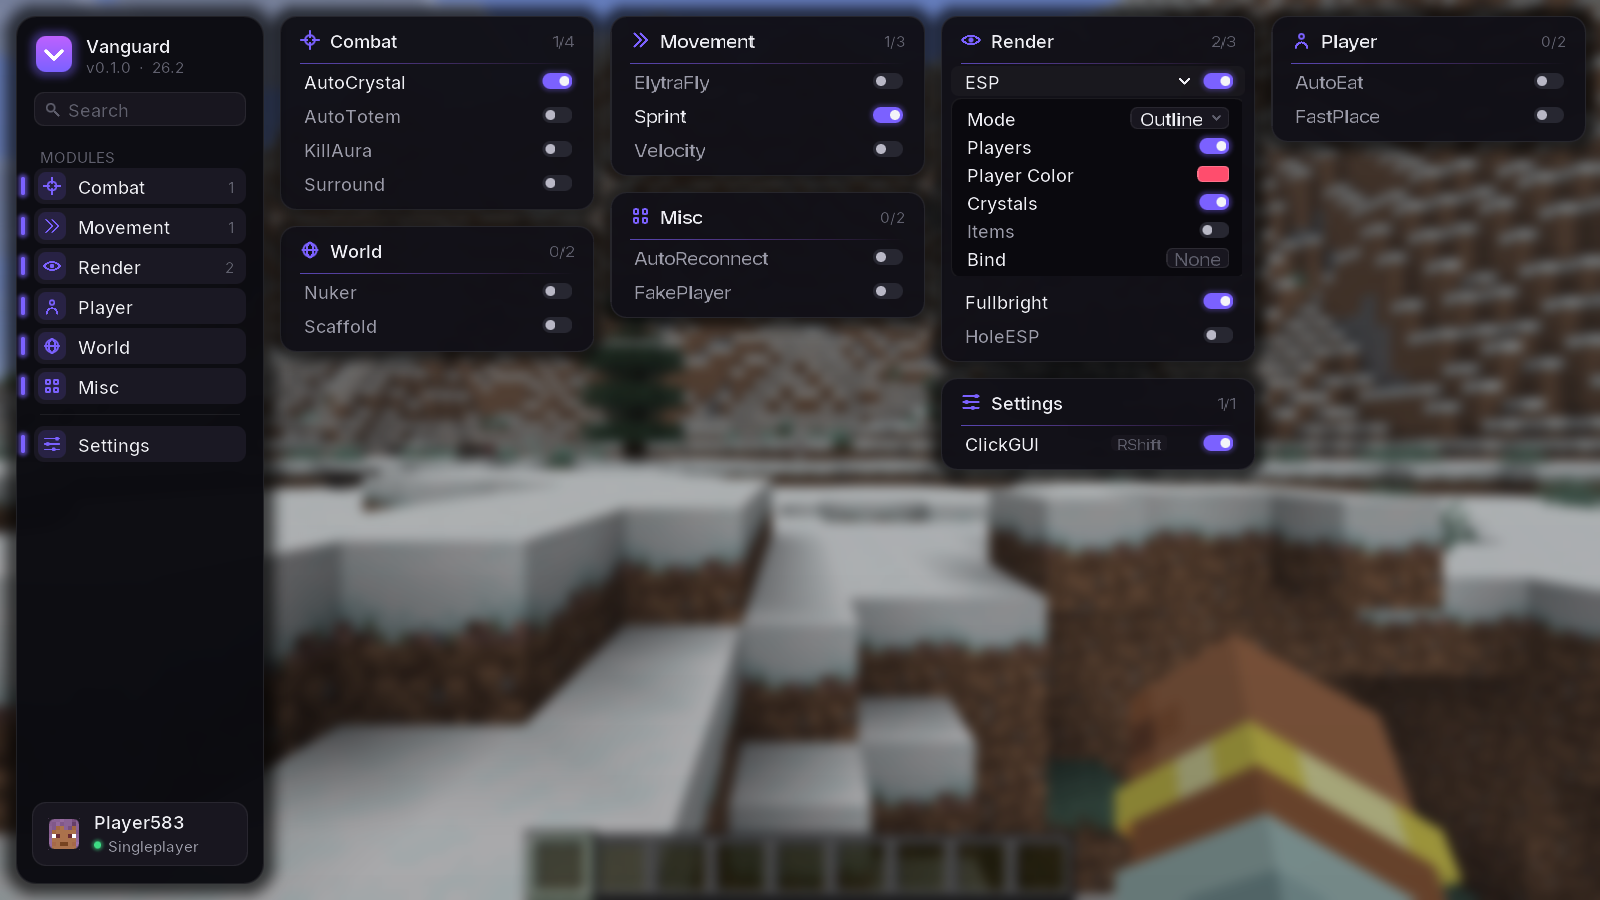
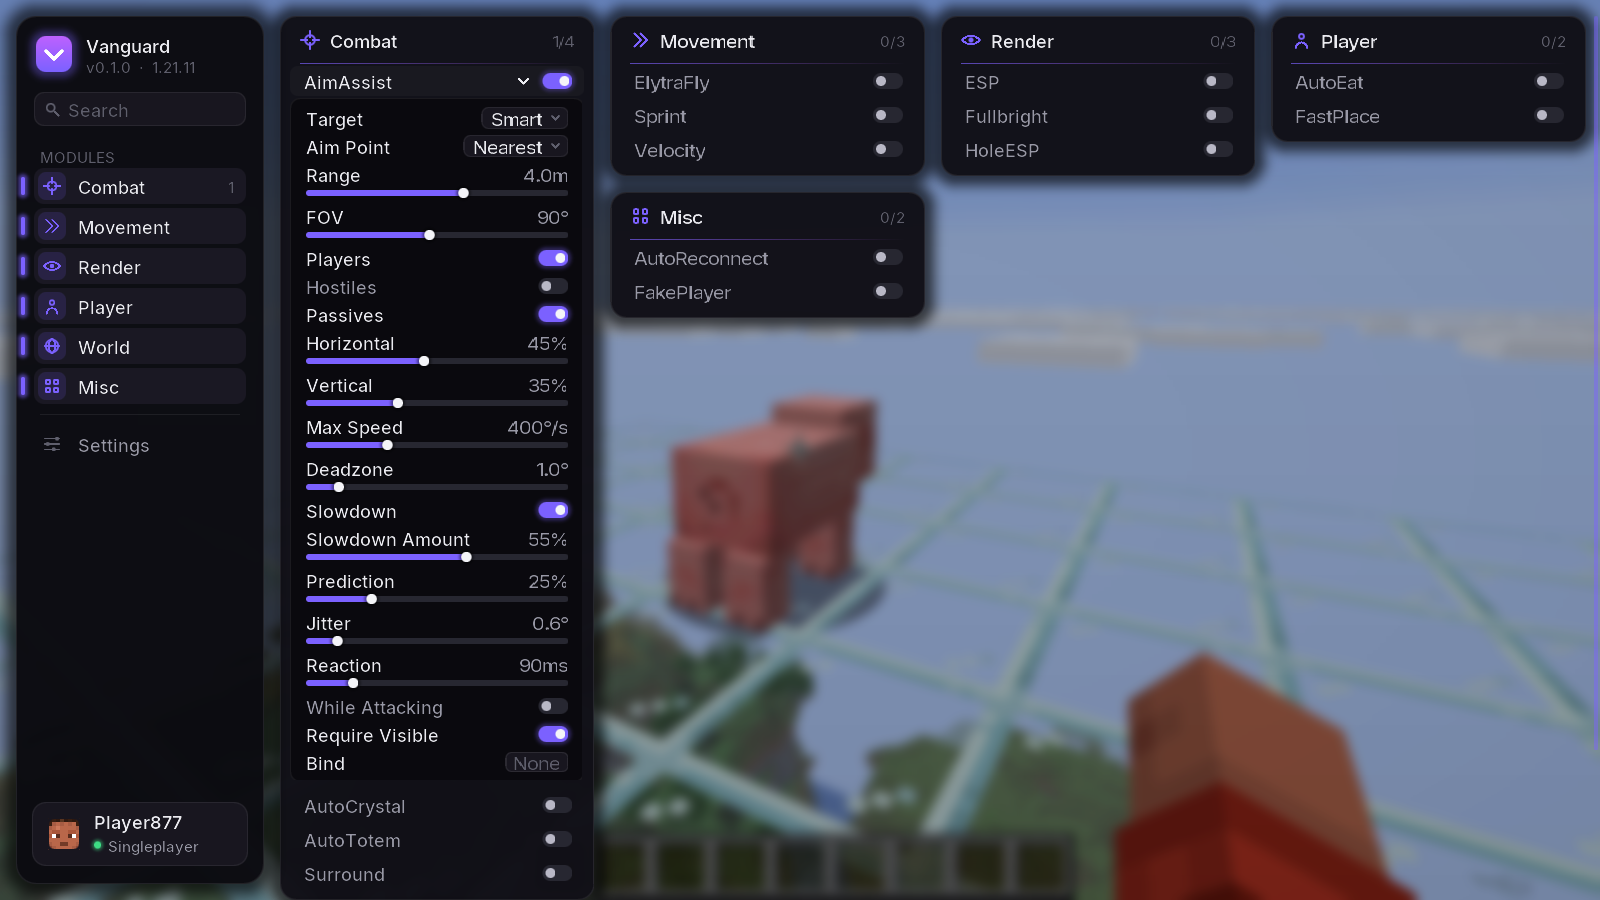
Port Vanguard to Minecraft 1.21.11
Retarget the client from 26.2 to 1.21.11 with Java 21.

- Build: fabric-loom-remap with official Mojang mappings (1.21.11 is
  obfuscated), Fabric API 0.141.6+1.21.11, modImplementation deps.
- Access: classTweaker v1 becomes an access widener v2 on GuiGraphics.
- Rendering: shape pipeline declares the DynamicTransforms/Projection
  uniform buffers, blend, vertex format and no depth test;
  GuiGraphicsExtractor -> GuiGraphics, submitGuiElement, drawString,
  PlayerFaceRenderer.
- Screens: render/renderBackground and mc.screen/mc.setScreen.
- Sidebar reads the Minecraft version at runtime instead of a constant.
- README: install steps, 1.21.11 verification, new screenshot.

Verified in the dev client and with the remapped jar in a production
Fabric 1.21.11 install: GUI renders and aim assist eases onto a target.

Claude-Session: https://claude.ai/code/session_01Q16H1v8gcbm1R3vFJiJjeu

diff --git a/src/main/java/dev/vanguard/gui/render/Render2D.java b/src/main/java/dev/vanguard/gui/render/Render2D.java
@@ -2,7 +2,7 @@ package dev.vanguard.gui.render;
 
 import net.minecraft.client.Minecraft;
 import net.minecraft.client.gui.Font;
-import net.minecraft.client.gui.GuiGraphicsExtractor;
+import net.minecraft.client.gui.GuiGraphics;
 import net.minecraft.client.gui.navigation.ScreenRectangle;
 import net.minecraft.network.chat.FontDescription;
 import net.minecraft.network.chat.Style;
@@ -25,7 +25,7 @@ public final class Render2D {
     private static final int SOFT = 1;
 
     private final Minecraft mc = Minecraft.getInstance();
-    private GuiGraphicsExtractor graphics;
+    private GuiGraphics graphics;
 
     private float alpha = 1f;
     private float[] alphaStack = new float[8];
@@ -50,7 +50,7 @@ public final class Render2D {
      * @param customFont  use the bundled Inter font instead of Minecraft's
      * @param pixelsPerUnit physical pixels per GUI unit, used to pick a crisp font rasterization
      */
-    public void begin(GuiGraphicsExtractor graphics, boolean customFont, float pixelsPerUnit) {
+    public void begin(GuiGraphics graphics, boolean customFont, float pixelsPerUnit) {
         this.graphics = graphics;
         this.alpha = 1f;
         this.alphaDepth = 0;
@@ -74,7 +74,7 @@ public final class Render2D {
         return Style.EMPTY.withFont(new FontDescription.Resource(dev.vanguard.Vanguard.id(prefix + oversample)));
     }
 
-    public GuiGraphicsExtractor graphics() {
+    public GuiGraphics graphics() {
         return graphics;
     }
 
@@ -365,7 +365,7 @@ public final class Render2D {
             pose.translate(x, y);
             if (scale != 1f) pose.scale(scale);
             // Minecraft's pixel font needs its drop shadow to read well; Inter doesn't.
-            graphics.text(mc.font, sequence, 0, 0, c, !customFont);
+            graphics.drawString(mc.font, sequence, 0, 0, c, !customFont);
             pose.popMatrix();
         }
         return mc.font.getSplitter().stringWidth(sequence) * scale;
@@ -495,7 +495,7 @@ public final class Render2D {
             bounds = scissor.intersection(bounds);
             if (bounds == null) return;
         }
-        graphics.guiRenderState.addGuiElement(new ShapeRenderState(
+        graphics.guiRenderState.submitGuiElement(new ShapeRenderState(
             pose,
             Arrays.copyOf(vertices, vertexCount * ShapeRenderState.FLOATS_PER_VERTEX),
             Arrays.copyOf(colors, vertexCount),

diff --git a/src/main/java/dev/vanguard/gui/clickgui/ClickGuiScreen.java b/src/main/java/dev/vanguard/gui/clickgui/ClickGuiScreen.java
@@ -14,7 +14,7 @@ import dev.vanguard.module.Category;
 import dev.vanguard.module.ModuleManager;
 import dev.vanguard.module.modules.client.ClickGuiModule;
 import net.fabricmc.loader.api.FabricLoader;
-import net.minecraft.client.gui.GuiGraphicsExtractor;
+import net.minecraft.client.gui.GuiGraphics;
 import net.minecraft.client.gui.screens.Screen;
 import net.minecraft.client.input.CharacterEvent;
 import net.minecraft.client.input.KeyEvent;
@@ -238,7 +238,7 @@ public final class ClickGuiScreen extends Screen implements Sidebar.Host {
     }
 
     @Override
-    public void extractBackground(GuiGraphicsExtractor graphics, int mouseX, int mouseY, float partialTick) {
+    public void renderBackground(GuiGraphics graphics, int mouseX, int mouseY, float partialTick) {
         // Menu blur strength is Minecraft's own accessibility option; 0 means the player turned it off.
         if (settings.blur.isOn() && minecraft.options.getMenuBackgroundBlurriness() >= 1) {
             graphics.blurBeforeThisStratum();
@@ -246,7 +246,7 @@ public final class ClickGuiScreen extends Screen implements Sidebar.Host {
     }
 
     @Override
-    public void extractRenderState(GuiGraphicsExtractor graphics, int mouseX, int mouseY, float partialTick) {
+    public void render(GuiGraphics graphics, int mouseX, int mouseY, float partialTick) {
         // Character events arrive in the same input poll as their key press, so one frame later
         // any character belonging to a swallowed key has been delivered.
         swallowChar = false;
@@ -259,7 +259,7 @@ public final class ClickGuiScreen extends Screen implements Sidebar.Host {
         if (closing && openProgress.isDone()) {
             // Leave the screen after this frame rather than in the middle of drawing it.
             minecraft.execute(() -> {
-                if (minecraft.gui.screen() == this) minecraft.gui.setScreen(null);
+                if (minecraft.screen == this) minecraft.setScreen(null);
             });
         }
 

diff --git a/src/main/java/dev/vanguard/gui/clickgui/Sidebar.java b/src/main/java/dev/vanguard/gui/clickgui/Sidebar.java
@@ -7,8 +7,9 @@ import dev.vanguard.gui.render.Colors;
 import dev.vanguard.gui.render.Icons;
 import dev.vanguard.gui.render.Render2D;
 import dev.vanguard.module.Category;
+import net.minecraft.SharedConstants;
 import net.minecraft.client.Minecraft;
-import net.minecraft.client.gui.components.PlayerFaceExtractor;
+import net.minecraft.client.gui.components.PlayerFaceRenderer;
 import net.minecraft.client.multiplayer.PlayerInfo;
 import net.minecraft.client.multiplayer.ServerData;
 import org.joml.Matrix3x2fStack;
@@ -67,7 +68,7 @@ final class Sidebar {
         r.roundedGradientV(logoX, logoY, logo, logo, 5f, theme.accentSecondary(), theme.accent());
         r.chevron(logoX + logo / 2f, logoY + logo / 2f + 0.5f, 8f, (float) (Math.PI / 2), 1.8f, 0xFFFFFFFF);
         r.text("Vanguard", logoX + logo + 7f, logoY + 1f, Theme.TEXT, true);
-        r.small(version + "  ·  26.2", logoX + logo + 7f, logoY + 11f, Theme.TEXT_MUTED);
+        r.small(version + "  ·  " + SharedConstants.getCurrentVersion().name(), logoX + logo + 7f, logoY + 11f, Theme.TEXT_MUTED);
 
         float cy = y + PAD + 29f;
         search.render(ctx, x + PAD, cy, WIDTH - PAD * 2);
@@ -103,7 +104,7 @@ final class Sidebar {
             pose.pushMatrix();
             pose.translate(faceX, faceY);
             pose.scale(face / 8f);
-            PlayerFaceExtractor.extractRenderState(r.graphics(), mc.player.getSkin(), 0, 0, 8, r.withCurrentAlpha(0xFFFFFFFF));
+            PlayerFaceRenderer.draw(r.graphics(), mc.player.getSkin(), 0, 0, 8, r.withCurrentAlpha(0xFFFFFFFF));
             pose.popMatrix();
             // Round the face's corners by covering them with the card color.
             r.roundedOutline(faceX - 1f, faceY - 1f, face + 2f, face + 2f, 4f, 1.6f, Theme.FIELD);

diff --git a/src/main/java/dev/vanguard/gui/render/VanguardPipelines.java b/src/main/java/dev/vanguard/gui/render/VanguardPipelines.java
@@ -1,24 +1,24 @@
 package dev.vanguard.gui.render;
 
-import com.mojang.blaze3d.PrimitiveTopology;
 import com.mojang.blaze3d.pipeline.BlendFunction;
-import com.mojang.blaze3d.pipeline.ColorTargetState;
 import com.mojang.blaze3d.pipeline.RenderPipeline;
+import com.mojang.blaze3d.platform.DepthTestFunction;
+import com.mojang.blaze3d.shaders.UniformType;
 import com.mojang.blaze3d.vertex.DefaultVertexFormat;
+import com.mojang.blaze3d.vertex.VertexFormat;
 import dev.vanguard.Vanguard;
-import net.minecraft.client.renderer.BindGroupLayouts;
 
 public final class VanguardPipelines {
     /** Anti-aliased rounded shapes, rings and soft shadows. See shape.fsh for the UV encoding. */
     public static final RenderPipeline SHAPE = RenderPipeline.builder()
-        .withBindGroupLayout(BindGroupLayouts.GLOBALS)
-        .withBindGroupLayout(BindGroupLayouts.MATRICES_PROJECTION)
+        .withUniform("DynamicTransforms", UniformType.UNIFORM_BUFFER)
+        .withUniform("Projection", UniformType.UNIFORM_BUFFER)
         .withLocation(Vanguard.id("pipeline/shape"))
         .withVertexShader(Vanguard.id("core/shape"))
         .withFragmentShader(Vanguard.id("core/shape"))
-        .withColorTargetState(new ColorTargetState(BlendFunction.TRANSLUCENT))
-        .withVertexBinding(0, DefaultVertexFormat.POSITION_TEX_COLOR)
-        .withPrimitiveTopology(PrimitiveTopology.QUADS)
+        .withBlend(BlendFunction.TRANSLUCENT)
+        .withVertexFormat(DefaultVertexFormat.POSITION_TEX_COLOR, VertexFormat.Mode.QUADS)
+        .withDepthTestFunction(DepthTestFunction.NO_DEPTH_TEST)
         .build();
 
     private VanguardPipelines() {

diff --git a/src/main/java/dev/vanguard/module/modules/client/ClickGuiModule.java b/src/main/java/dev/vanguard/module/modules/client/ClickGuiModule.java
@@ -43,14 +43,14 @@ public final class ClickGuiModule extends Module {
     @Override
     protected void onEnable() {
         Minecraft mc = Minecraft.getInstance();
-        if (!(mc.gui.screen() instanceof ClickGuiScreen)) {
-            mc.gui.setScreen(Vanguard.get().clickGui());
+        if (!(mc.screen instanceof ClickGuiScreen)) {
+            mc.setScreen(Vanguard.get().clickGui());
         }
     }
 
     @Override
     protected void onDisable() {
         Minecraft mc = Minecraft.getInstance();
-        if (mc.gui.screen() instanceof ClickGuiScreen screen) screen.close();
+        if (mc.screen instanceof ClickGuiScreen screen) screen.close();
     }
 }

diff --git a/src/main/java/dev/vanguard/module/modules/combat/AimAssist.java b/src/main/java/dev/vanguard/module/modules/combat/AimAssist.java
@@ -100,7 +100,7 @@ public final class AimAssist extends Module {
     public void onTurn(LocalPlayer player, double mouseXo, double mouseYo) {
         if (!isEnabled()) return;
         Minecraft mc = Minecraft.getInstance();
-        if (mc.level == null || mc.gui.screen() != null) return;
+        if (mc.level == null || mc.screen != null) return;
 
         long now = System.nanoTime();
         float dt = lastFrameNanos == 0 ? 0f : (float) Math.min((now - lastFrameNanos) / 1.0e9, 0.1);

diff --git a/src/main/java/dev/vanguard/gui/render/ShapeRenderState.java b/src/main/java/dev/vanguard/gui/render/ShapeRenderState.java
@@ -4,7 +4,7 @@ import com.mojang.blaze3d.pipeline.RenderPipeline;
 import com.mojang.blaze3d.vertex.VertexConsumer;
 import net.minecraft.client.gui.navigation.ScreenRectangle;
 import net.minecraft.client.gui.render.TextureSetup;
-import net.minecraft.client.renderer.state.gui.GuiElementRenderState;
+import net.minecraft.client.gui.render.state.GuiElementRenderState;
 import org.joml.Matrix3x2fc;
 import org.jspecify.annotations.Nullable;
 

diff --git a/README.md b/README.md
@@ -1,6 +1,6 @@
 # Vanguard
 
-A Fabric utility client for anarchy servers, built for **Minecraft 26.2** (the version 2b2t runs).
+A Fabric utility client for anarchy servers, built for **Minecraft 1.21.11**.
 
 ![ClickGUI](docs/clickgui.png)
 
@@ -43,9 +43,16 @@ Settings (Combat tab):
 - While Attacking - only assist while holding attack.
 - Require Visible - ignore targets you can't see (line-of-sight raycast).
 
-Verified in the live 26.2 client: the view is driven from a 45 degree offset onto the target and
-eases in (measured angle-to-target 9.5 -> 3.9 -> 1.7 degrees over successive frames), stops at the
-deadzone, and releases targets outside range/FOV.
+Verified on 1.21.11 with both the dev client and the release jar in a production Fabric install.
+Starting at 0/0 (yaw/pitch) with a pig about 34 degrees to the side, the view eased onto it:
+0.0/0.0 -> 17.5/6.2 -> 30.5/13.3 over about two seconds, stopping on the pig's hitbox.
+
+## Installing
+
+1. Install [Fabric Loader](https://fabricmc.net/use/) 0.19.5 or newer for Minecraft 1.21.11.
+2. Put `vanguard-0.1.0+1.21.11.jar` in your `.minecraft/mods` folder. Fabric API isn't required;
+   the two modules Vanguard needs are bundled inside the jar.
+3. Launch the Fabric 1.21.11 profile and press Right Shift in game.
 
 ## Controls
 
@@ -62,15 +69,13 @@ deadzone, and releases targets outside range/FOV.
 
 ## Building
 
-You need a JDK 21 or newer to start Gradle. Gradle downloads JDK 25 on its own, since Minecraft 26.2 and Loom need it.
+You need a JDK 21 or newer to start Gradle. Gradle downloads JDK 25 on its own to run Loom; the mod itself is compiled for Java 21, like Minecraft 1.21.11.
 
 ```sh
 ./gradlew build        # jar in build/libs/
 ./gradlew test         # unit tests
 ./gradlew runClient    # dev client with the mod loaded
 ```
-
-The jar bundles the two Fabric API modules it needs (`fabric-api-base` and `fabric-resource-loader-v1`), so you only need Fabric Loader installed to use it.
 
 ## Layout
 
@@ -94,4 +99,4 @@ src/main/resources/assets/vanguard/
 
 ### How rendering works
 
-Minecraft 26.2 builds the GUI as a list of render states and draws them later, layered by their screen bounds. `Render2D` adds its own `GuiElementRenderState`s that use the `vanguard:pipeline/shape` pipeline. Rounded corners are quarter-circle quads, so the fragment shader only has to measure distance from the corner to get anti-aliased edges, rings and shadow falloff. The shape type and its parameter are packed into the texture coordinates, which lets every shape share one vertex format and batch together.
+Minecraft 1.21.11 builds the GUI as a list of render states and draws them later, layered by their screen bounds. `Render2D` adds its own `GuiElementRenderState`s that use the `vanguard:pipeline/shape` pipeline. Rounded corners are quarter-circle quads, so the fragment shader only has to measure distance from the corner to get anti-aliased edges, rings and shadow falloff. The shape type and its parameter are packed into the texture coordinates, which lets every shape share one vertex format and batch together.
